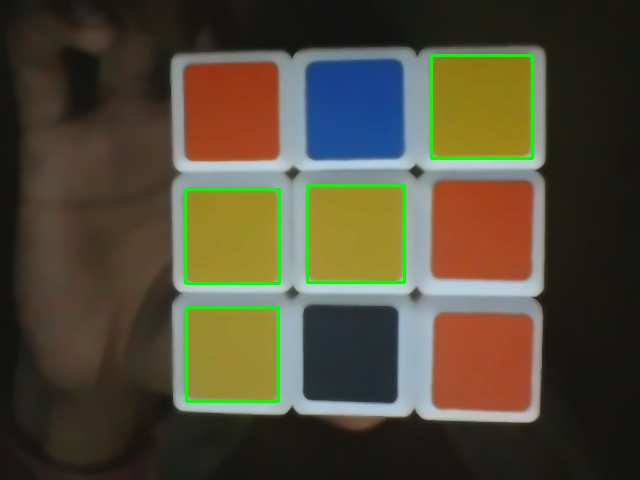
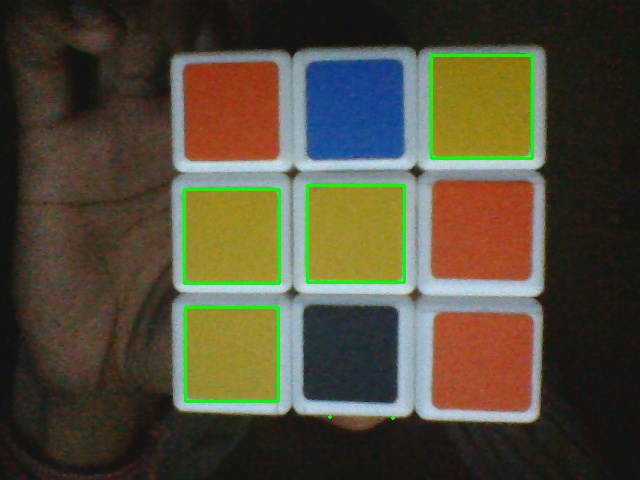
update rubik

diff --git a/rubik/detec_color.py b/rubik/detec_color.py
@@ -5,27 +5,31 @@ from cv2 import *
 img_path = './data/images/demo1.png'
 
 image = cv2.imread(img_path)
-image = cv2.bilateralFilter(image, 9, 75, 75)
-image = cv2.fastNlMeansDenoisingColored(image, None, 10, 10, 7, 21)
+image_bilateral = cv2.bilateralFilter(image, 9, 75, 75)
+image_denoising = cv2.fastNlMeansDenoisingColored(image, None, 10, 10, 7, 21)
+cv2.namedWindow("origin->bilateral->denoising", cv2.WINDOW_NORMAL)
+cv2.imshow("origin->bilateral->denoising", np.hstack([image, image_bilateral, image_denoising]))
 
-hsv_img = cv2.cvtColor(image, cv2.COLOR_BGR2HSV)   # HSV imageage
+
+hsv_img = cv2.cvtColor(image_denoising, cv2.COLOR_BGR2HSV)   # HSV imageage
 
 COLOR_MIN = np.array([20, 100, 100], np.uint8)  # HSV color code lower and upper bounds
 COLOR_MAX = np.array([30, 255, 255], np.uint8)  # color yellow
 
-frame_threshed = cv2.inRange(hsv_img, COLOR_MIN, COLOR_MAX)     # Thresholding image
+img_mask = cv2.inRange(hsv_img, COLOR_MIN, COLOR_MAX)  # Thresholding image
+cv2.imshow("freame_threshed", img_mask)
 
-img_ray = frame_threshed
+# img_ray = frame_threshed
+# ret, thresh = cv2.threshold(frame_threshed, 127, 255, 0)
+# cv2.imshow("threshold", thresh)
 
-ret, thresh = cv2.threshold(frame_threshed, 127, 255, 0)
-img2, contours, hierarchy = cv2.findContours(thresh, cv2.RETR_TREE, cv2.CHAIN_APPROX_SIMPLE)
+img2, contours, hierarchy = cv2.findContours(img_mask, cv2.RETR_TREE, cv2.CHAIN_APPROX_SIMPLE)
 print(type(contours))
 
 
 for cnt in contours:
     x, y, w, h = cv2.boundingRect(cnt)
-    print(x)
-    print(y)
+    print("x: {0}, y: {1}".format(x, y))
     cv2.rectangle(image, (x, y), (x+w, y+h), (0, 255, 0), 2)
 
 cv2.imshow("Show", image)
